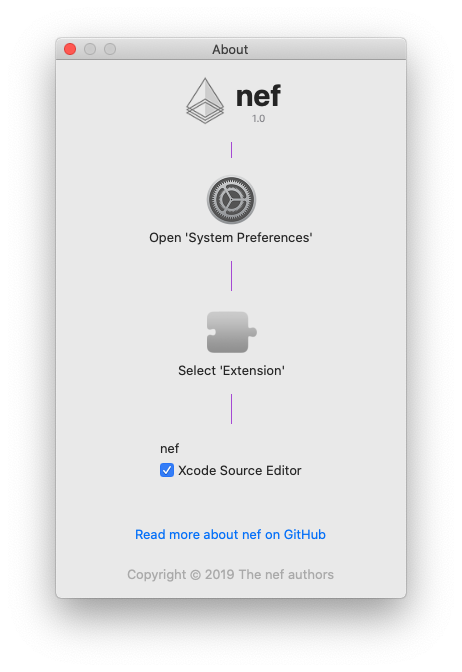
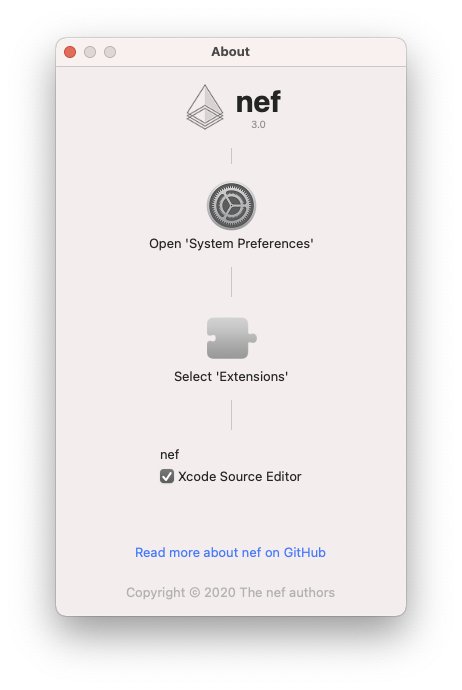
update README
minor changes

add export code selection images

diff --git a/README.md b/README.md
@@ -1,5 +1,5 @@
 <p align="center">
-    <img src="https://github.com/bow-swift/bow-art/blob/master/assets/nef-brand-xcode-shadow.png?raw=true" alt="nef: an Xcode 11 plugin" width="30%"/>
+    <img src="https://github.com/bow-swift/bow-art/blob/master/assets/nef-brand-xcode-shadow.png?raw=true" alt="nef: an Xcode plugin" width="30%"/>
 </p>
 
 <p align="center">
@@ -10,10 +10,10 @@
     <img src="https://img.shields.io/badge/Swift%20UI-%E2%9C%93-orange" alt="Swift UI">
     </a>
     <a href="https://swift.org/download">
-    <img src="https://img.shields.io/badge/Swift-5.1-orange" alt="Swift 5.1">
+    <img src="https://img.shields.io/badge/Swift-5.3-orange" alt="Swift 5.3">
     </a>
     <a href="https://developer.apple.com/xcode">
-    <img src="https://img.shields.io/badge/IDE-Xcode%2011-blue" alt="Xcode 11+">
+    <img src="https://img.shields.io/badge/IDE-Xcode%2011+-blue" alt="Xcode 11+">
     </a>
     <a href="https://www.apple.com/macos/catalina/">
     <img src="https://img.shields.io/badge/macOS-10.15%2B-blue" alt="macOS 10.15+">
@@ -26,7 +26,7 @@ This project provides an extension for Xcode to integrate some nef features dire
 
 ### Features
 
-💡 Exports a [__code selection__](#-export-code-selection-to-image) to images for given Xcode Playgrounds.
+💡 Exports a [__code selection__](#-export-code-selection-to-image-or-clipboard) to image or clipboard.
 
 💡 Generates [__Markdown__](#-generates-markdown-file-from-playground) files from Xcode Playground.
 
@@ -34,40 +34,51 @@ This project provides an extension for Xcode to integrate some nef features dire
 
 &nbsp;
 
-## 📥 Installation
+## 💻 Installation
 
-You can install `nef` plugin from [Mac App Store](https://apps.apple.com/app/nef/id1479391704?mt=8) or download the last binary from the [releases](https://github.com/bow-swift/nef-plugin/releases) section.
+#### ➊ Latest binary in [Releases section](https://github.com/bow-swift/nef-plugin/releases/latest/download/nef-installer.dmg) (preferred)
+#### ➋ Using [Mac App Store](https://apps.apple.com/app/nef/id1479391704?mt=8)
 
-To complete the installation, you should enable `nef` extension from `System Preferences > Extensions > Xcode Source Editor`
+> To complete the installation, you should enable `nef` extension from `System Preferences > Extensions > Xcode Source Editor`
 
 <p align="center">
-    <img src="assets/nef-plugin-extensions.png" alt="nef: enable Xcode extension" width="90%"/>
+    <img src="assets/nef-plugin-extensions.png" alt="nef: enable Xcode extension" width="60%"/>
 </p>
+
+&nbsp;
 
 ## Usage
-### 🌁 Export code selection to image
 
-In Xcode you can find the nef plugin options in `Editor`.
+You can find the nef plugin options in `Xcode > Editor`
 
-If you want to export your current code selection into a snippet, you only need to select the action `Editor > nef > Code selection → Image`
+![Editor > nef](assets/nef-plugin-action-export.png)
 
-<p align="center">
-    <img src="assets/nef-plugin-action-export.png" alt="nef: action for exporting code selection to snippet" width="90%"/>
-</p>
-<p align="center">
-    <img src="assets/arrow-down.png" alt="nef: action for exporting code selection to snippet" width="8%"/>
-</p>
-<p align="center">
-    <img src="assets/nef-plugin-action-snippet.png" alt="nef: action for exporting code selection to snippet" width="55%"/>
-</p>
-
-#### 🔧 Preferences
+### 🔧 Preferences
 
 You can customize the output image using the preferences action `Editor > nef > Preferences`
 
 <p align="center">
-    <img src="assets/nef-xcode-preferences.png" alt="nef: preferences Xcode extension" width="80%"/>
+    <img src="assets/nef-xcode-preferences.png" alt="nef: preferences Xcode extension" width="70%"/>
 </p>
+
+&nbsp;
+
+### 🌁 Export code selection to image or clipboard
+You can export your current code selection into a snippet, you only need to select the action `Editor > nef > Code selection...`
+- **Image file** it will create an image in the [output folder](#-preferences).
+- **Image clipboard** it lets you take advantage of the [universal clipboard](https://support.apple.com/en-us/HT209460).
+
+#### Output
+ <table>
+  <tr>
+    <th align="center" width="50%">
+        <img src="assets/nef-plugin-action-imagefile.jpg" alt="nef: action for exporting code selection to image file"/>
+    </th>
+    <th align="center" width="50%">
+        <img src="assets/nef-plugin-action-imageclipboard.png" alt="nef: action for exporting code selection to clipboard"  width="175%"/>
+    </th>
+  </tr>
+</table>
 
 &nbsp;
 
@@ -75,14 +86,14 @@ You can customize the output image using the preferences action `Editor > nef > 
 
 Xcode Playgrounds let you write comments in markdown format using the symbols //: for single line comments, or /*: */ for multiline comments. Markup for playgrounds includes page level formatting for headings and other elements, formatting spans of characters, showing inline images, and several other features. You can read more in the [Markup Formatting Reference](https://developer.apple.com/library/archive/documentation/Xcode/Reference/xcode_markup_formatting_ref/index.html).
 
-You can create a markdown file from playground page with the nef action `Editor > nef > Playground → Markdown`
+You can create a markdown file from playground page with the nef action `Editor > nef > Export Playground page to markdown`
 
 &nbsp;
 
 ### 📲 Create a Playground Book from your Swift package
 
 You can create a Playground compatible with you iPad from a Swift package. You only need to open the swift package in Xcode,
-and select the action `Editor > nef > Swift Package → Playground Book`
+and select the action `Editor > nef > Playground Book from Swift Package`
 
 It will ask you where to save the Playground Book, and it will start to build it.
 
@@ -90,7 +101,7 @@ It will ask you where to save the Playground Book, and it will start to build it
     <img src="assets/nef-plugin-playgroundbook.png" alt="nef: action for making a Playground Book" width="90%"/>
 </p>
 
-> This feature needs to use SwiftPM tool. Consequently, it will need to disable the sandbox thus it is not allowed in the App Store; but if you want to enjoy this feature, you only need to install the `.dmg` you'll find in the [releases](https://github.com/bow-swift/nef-plugin/releases) section.
+> This feature needs to use Swift Package Manager tool. Consequently, it will need to disable the sandbox thus it is not allowed in the App Store; but if you want to enjoy this feature, you only need to install the `.dmg` you'll find in the [releases](https://github.com/bow-swift/nef-plugin/releases) section.
 
 &nbsp;
 
@@ -103,9 +114,9 @@ Open the shortcuts menu in `Xcode > Preferences... > Key Bindings` and set your 
     <img src="assets/nef-xcode-shortcuts.png" alt="nef: set keyboard shortcut"/>
 </p>
 
-# ⚖ License
+## ⚖ License
 
-    Copyright (C) 2019 The nef Authors
+    Copyright (C) 2019-2020 The nef Authors
 
     Licensed under the Apache License, Version 2.0 (the "License");
     you may not use this file except in compliance with the License.
